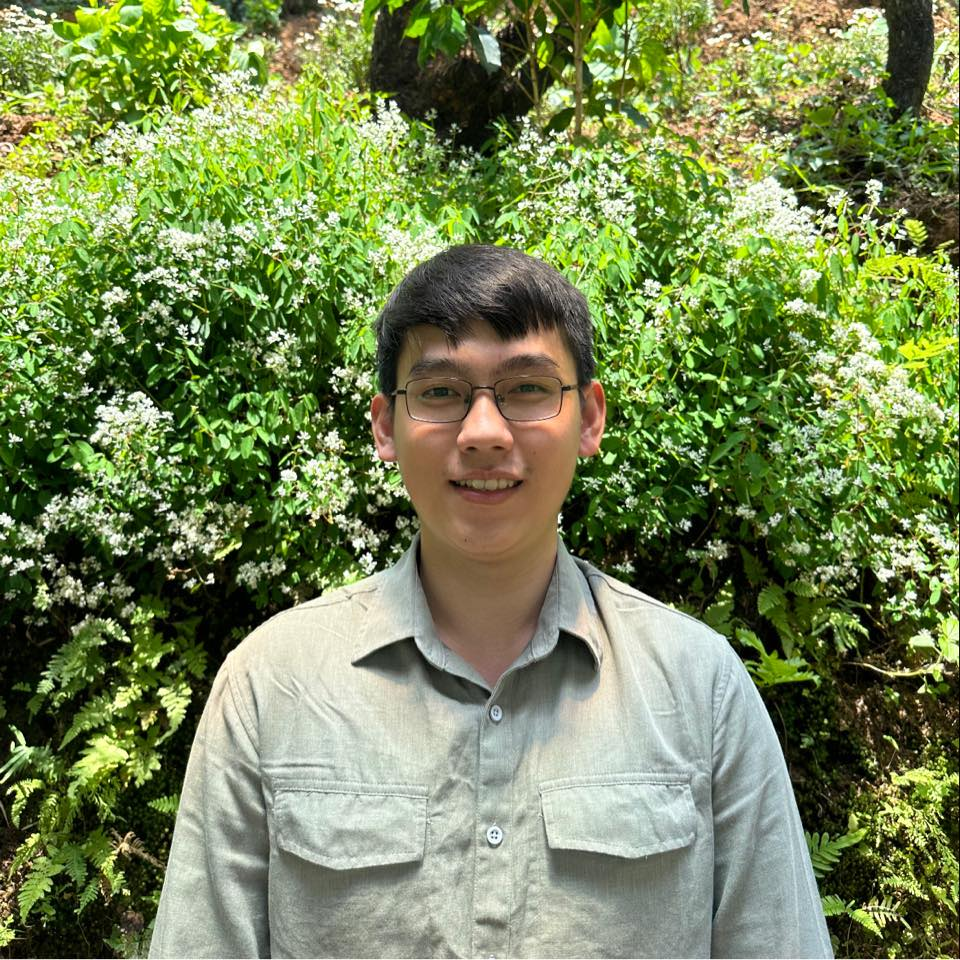
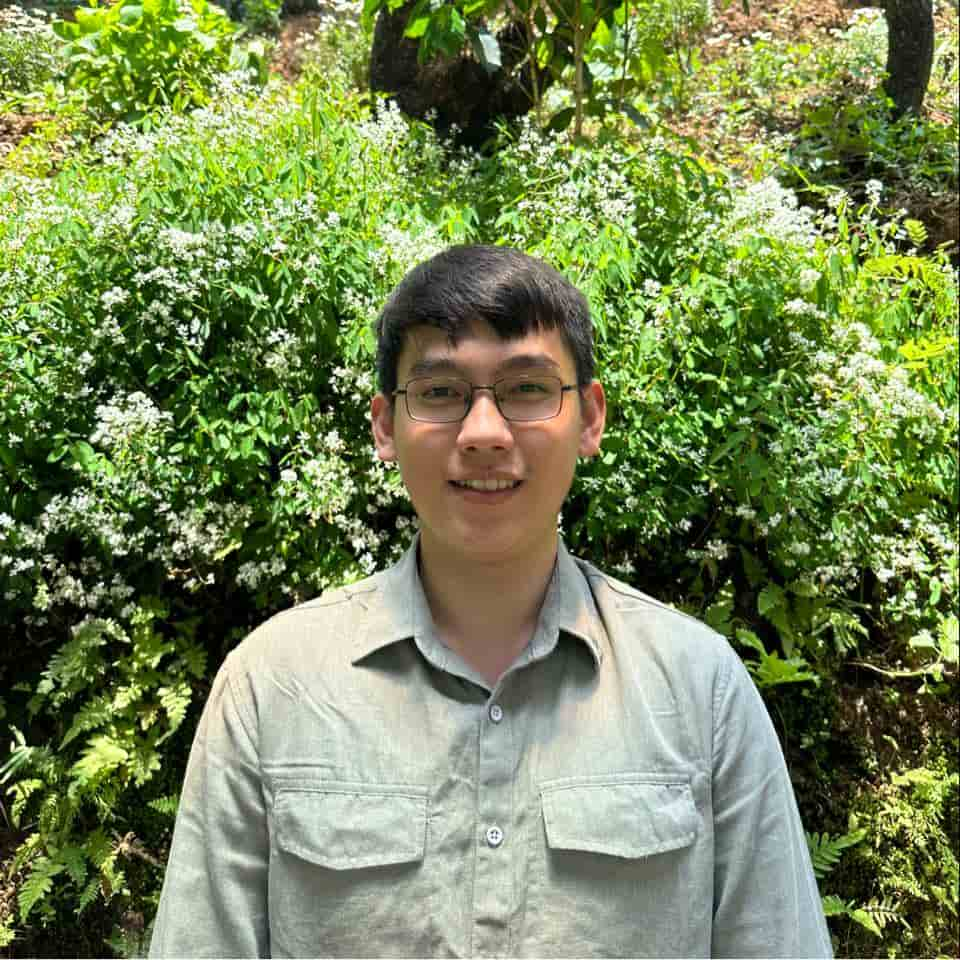
fix size img

diff --git a/src/pages/HomePage/Media/Media.jsx b/src/pages/HomePage/Media/Media.jsx
@@ -1,12 +1,12 @@
 import { Tabs } from "antd";
-import imgDienAnh1 from "../../../assets/media/dienanh/1.png";
-import imgDienAnh2 from "../../../assets/media/dienanh/2.png";
-import imgDienAnh3 from "../../../assets/media/dienanh/3.png";
-import imgDienAnh4 from "../../../assets/media/dienanh/4.png";
-import imgDienAnh5 from "../../../assets/media/dienanh/5.png";
-import imgDienAnh6 from "../../../assets/media/dienanh/6.png";
-import imgDienAnh7 from "../../../assets/media/dienanh/7.png";
-import imgDienAnh8 from "../../../assets/media/dienanh/8.png";
+import imgDienAnh1 from "../../../assets/media/dienanh/1.jpg";
+import imgDienAnh2 from "../../../assets/media/dienanh/2.jpg";
+import imgDienAnh3 from "../../../assets/media/dienanh/3.jpg";
+import imgDienAnh4 from "../../../assets/media/dienanh/4.jpg";
+import imgDienAnh5 from "../../../assets/media/dienanh/5.jpg";
+import imgDienAnh6 from "../../../assets/media/dienanh/6.jpg";
+import imgDienAnh7 from "../../../assets/media/dienanh/7.jpg";
+import imgDienAnh8 from "../../../assets/media/dienanh/8.jpg";
 
 import imgKhuyenMai1 from "../../../assets/media/khuyenmai/1.jpg";
 import imgKhuyenMai2 from "../../../assets/media/khuyenmai/2.jpg";
@@ -17,14 +17,14 @@ import imgKhuyenMai6 from "../../../assets/media/khuyenmai/6.jpg";
 import imgKhuyenMai7 from "../../../assets/media/khuyenmai/7.jpg";
 import imgKhuyenMai8 from "../../../assets/media/khuyenmai/8.jpg";
 
-import imgDanhGia1 from "../../../assets/media/danhgia/1.png";
-import imgDanhGia2 from "../../../assets/media/danhgia/2.png";
-import imgDanhGia3 from "../../../assets/media/danhgia/3.png";
-import imgDanhGia4 from "../../../assets/media/danhgia/4.png";
-import imgDanhGia5 from "../../../assets/media/danhgia/5.png";
-import imgDanhGia6 from "../../../assets/media/danhgia/6.png";
-import imgDanhGia7 from "../../../assets/media/danhgia/7.png";
-import imgDanhGia8 from "../../../assets/media/danhgia/8.png";
+import imgDanhGia1 from "../../../assets/media/danhgia/1.jpg";
+import imgDanhGia2 from "../../../assets/media/danhgia/2.jpg";
+import imgDanhGia3 from "../../../assets/media/danhgia/3.jpg";
+import imgDanhGia4 from "../../../assets/media/danhgia/4.jpg";
+import imgDanhGia5 from "../../../assets/media/danhgia/5.jpg";
+import imgDanhGia6 from "../../../assets/media/danhgia/6.jpg";
+import imgDanhGia7 from "../../../assets/media/danhgia/7.jpg";
+import imgDanhGia8 from "../../../assets/media/danhgia/8.jpg";
 
 function Media() {
 	const renderDienAnh = () => {

diff --git a/src/pages/DetailPage/Comment/Comment.jsx b/src/pages/DetailPage/Comment/Comment.jsx
@@ -6,7 +6,7 @@ import { getAllCommentMID, postCommentMID } from "../../../redux/slices/commentS
 import { useEffect, useRef } from "react";
 import moment from "moment";
 import imgThaySi from "../../../assets/comment/thay_si.jpg"
-import imgGai from "../../../assets/comment/gai.png"
+import imgGai from "../../../assets/comment/gai.jpg"
 
 function Comment() {
 	const dispatch = useDispatch();
